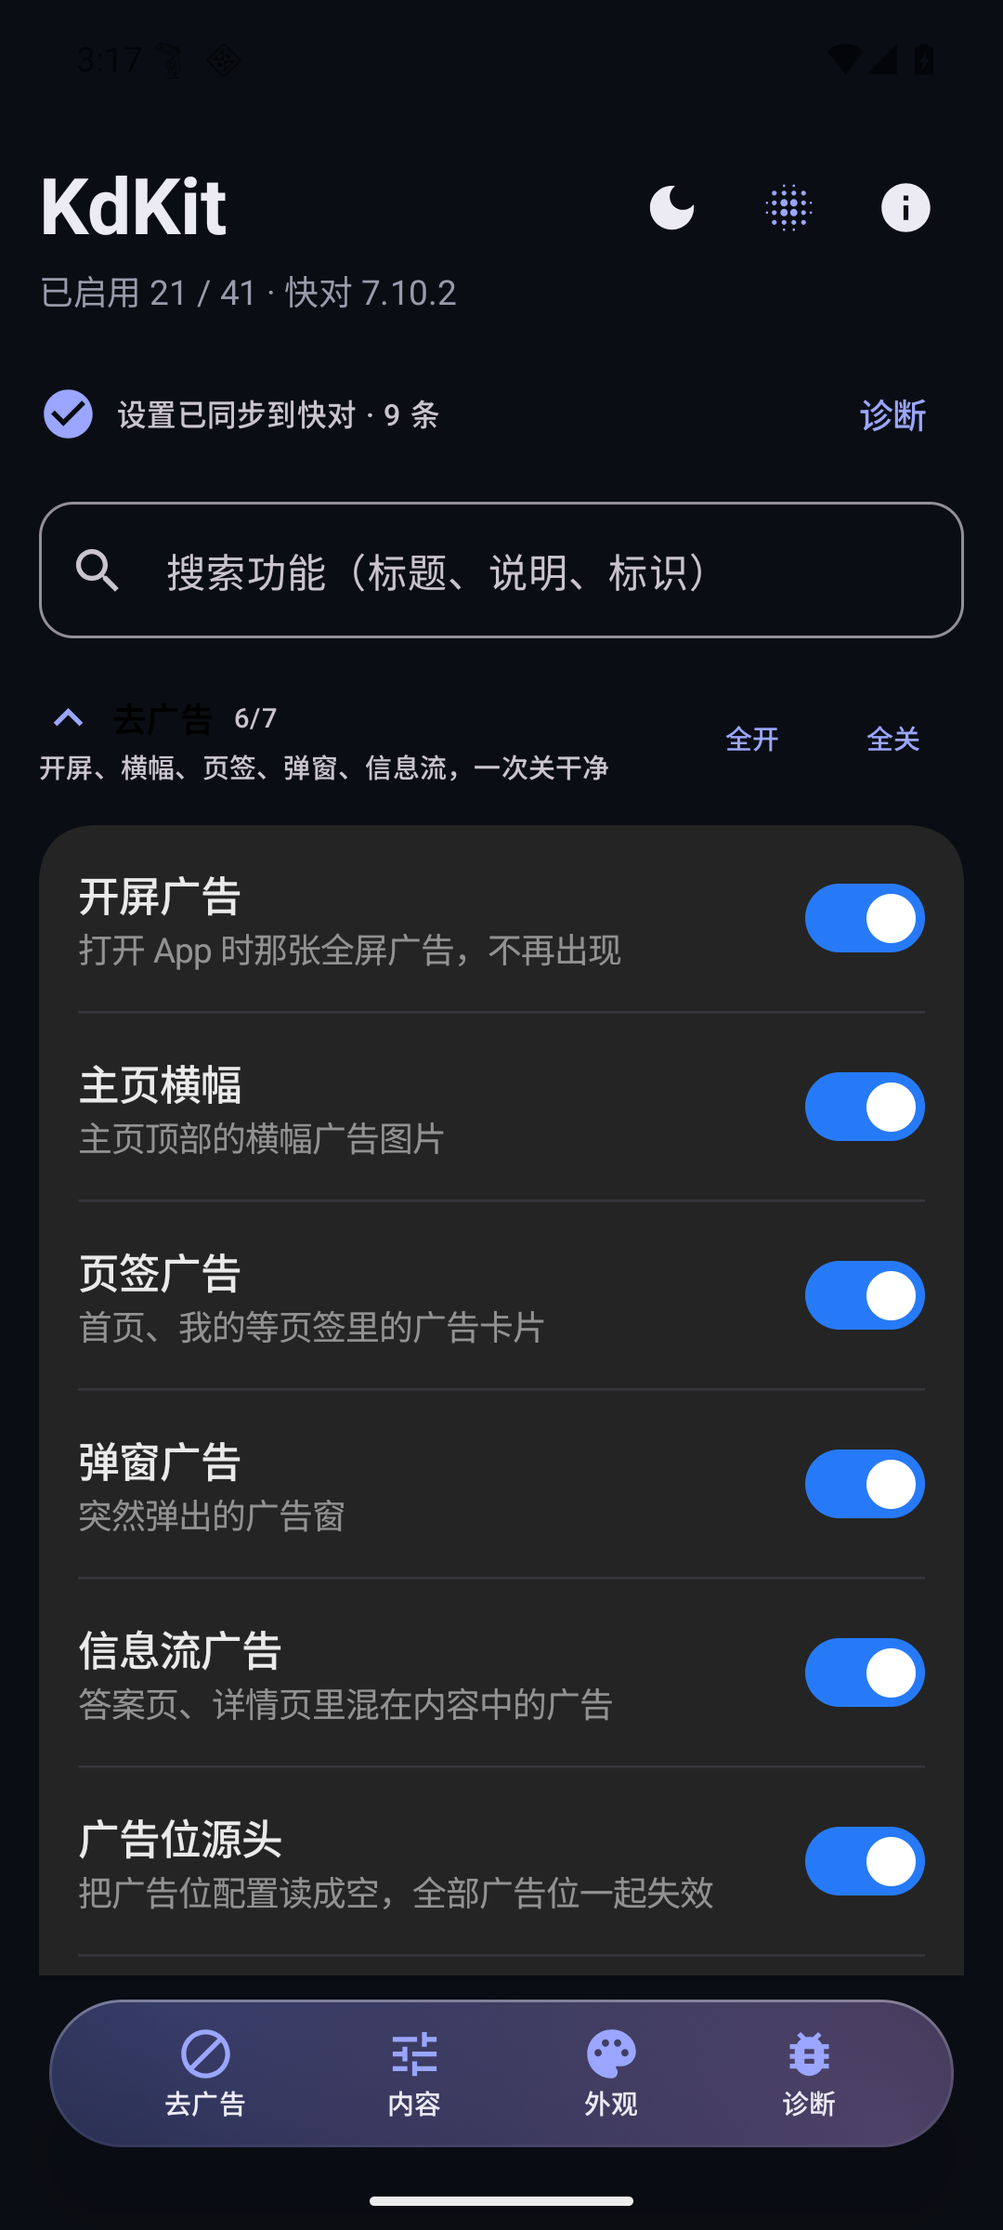
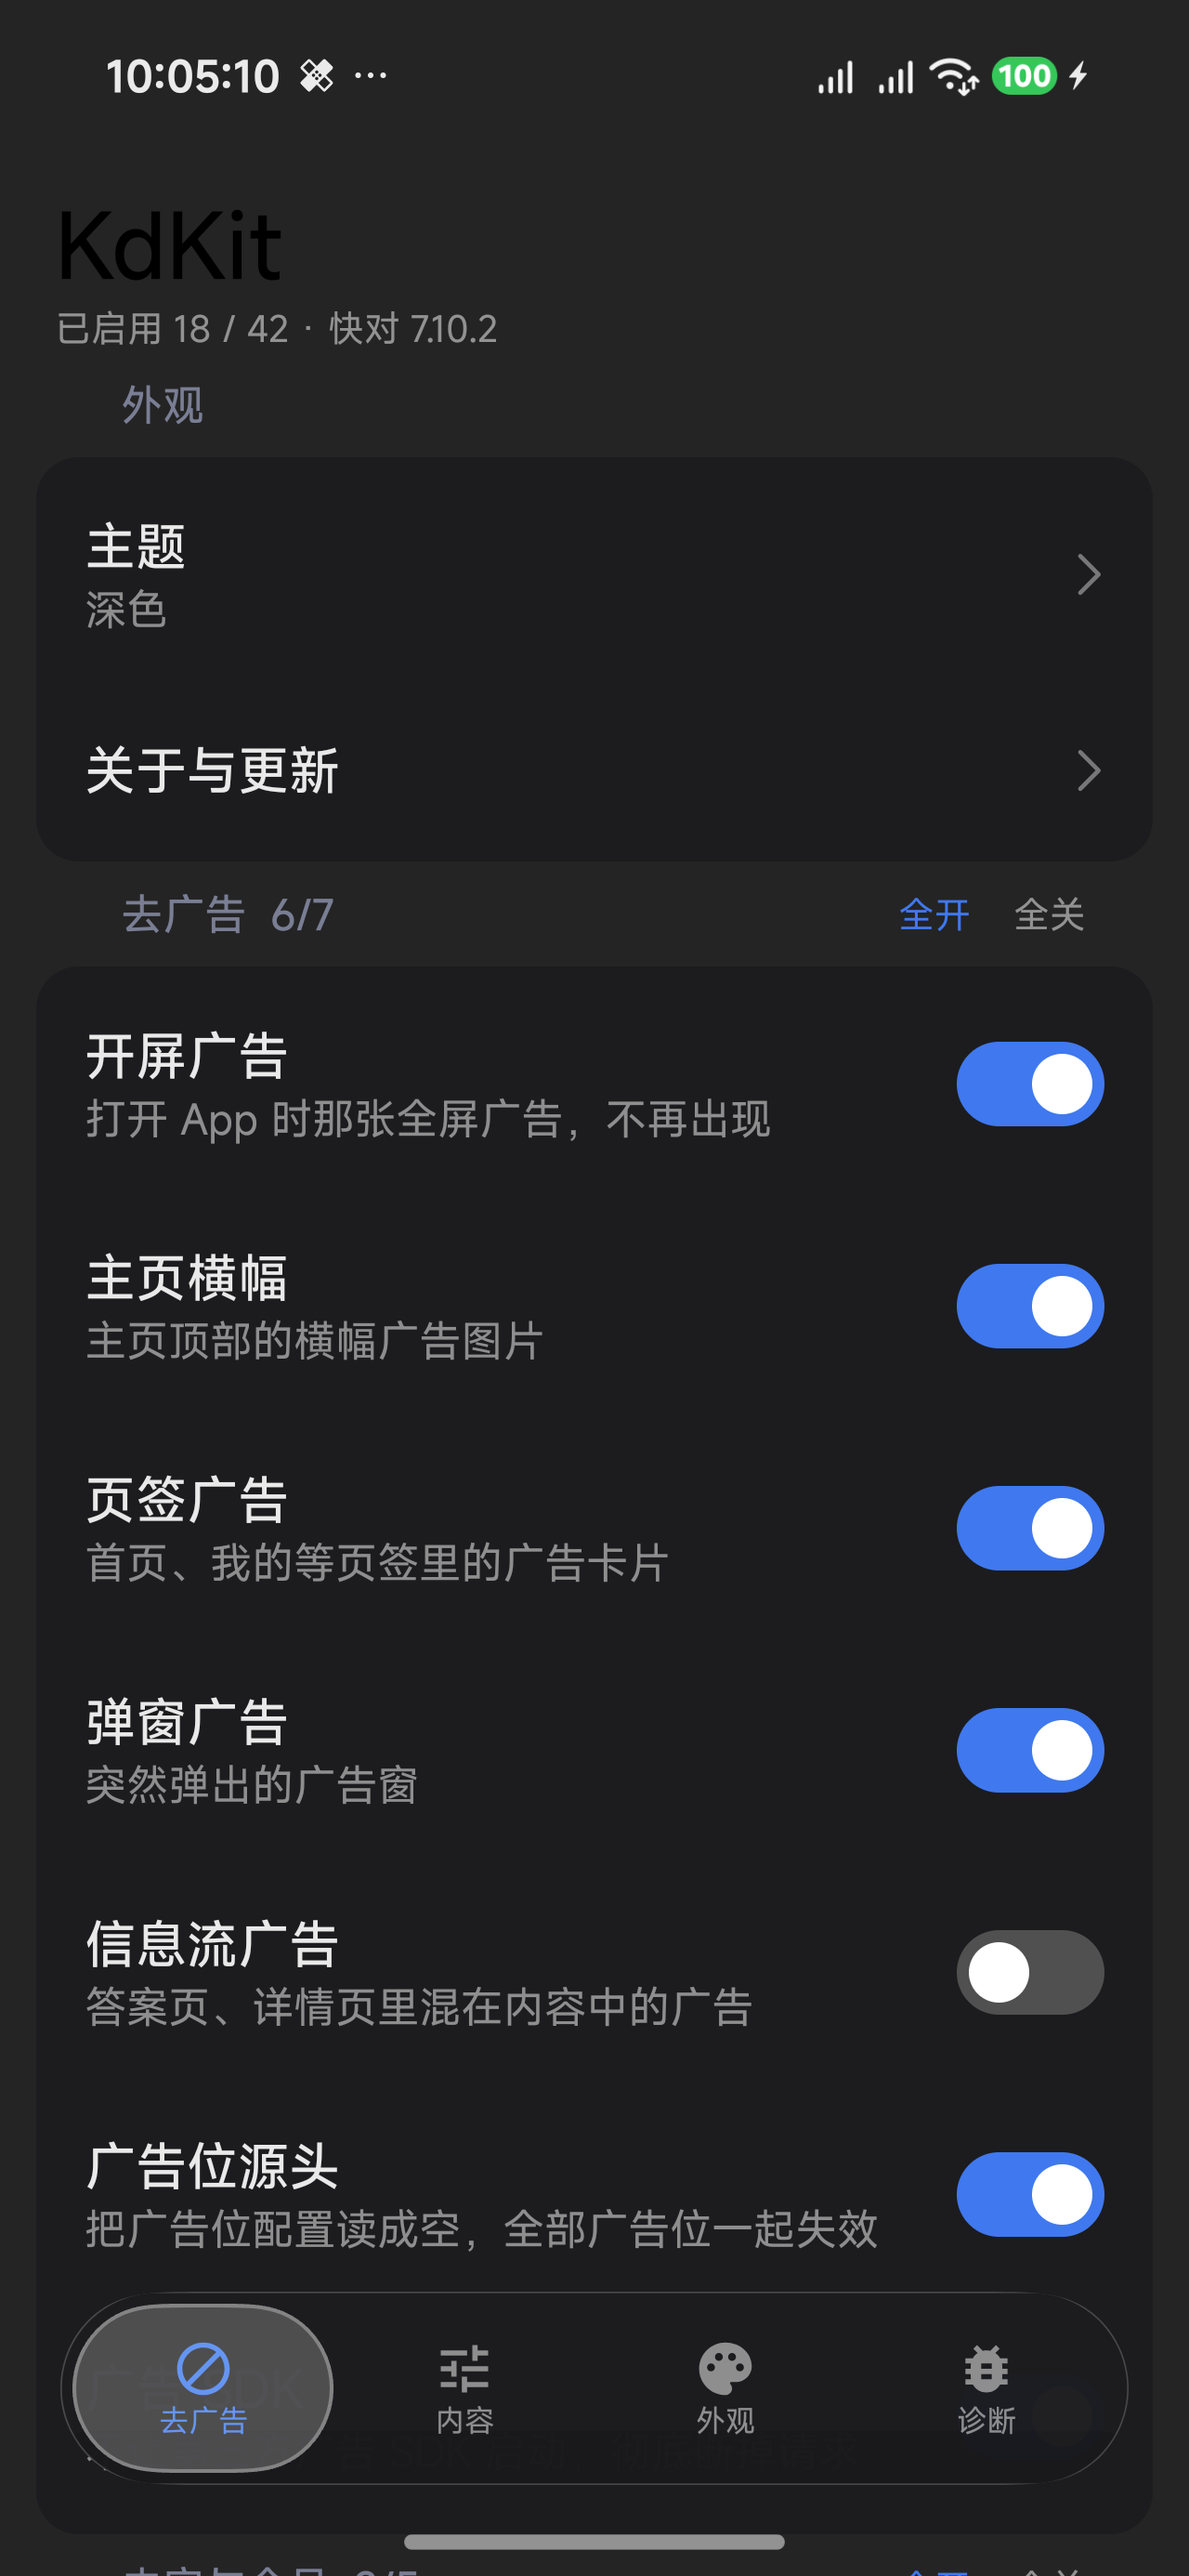
feat: 1.4.1 — 深色标题适配 / LSPosed 模块仓库 / README 换图
深色模式标题：页面里的 Text 来自 androidx material3，默认色取 MaterialTheme.colorScheme，
而 MiuixTheme 不会改 MaterialTheme。结果深色下 MiuixTheme 变深、Material 仍是浅色方案，
KdKit 大标题成了黑字黑底。现在在 MiuixTheme 里再套一层 MaterialTheme，
把 miuix 的语义色映射到 Material 角色。

卡片：miuix Card（底层 Surface）在颜色带透明度时会走 RenderEffect，撞小米 libhwui 的
MiBackgroundBlurBlend 崩溃点（10:02 实测启动白屏 + SIGSEGV）。改成自绘 GroupCard
（圆角 + 不透明底色），深色下 #1C1C1E 与页面底色分离，卡片边界清楚。

关于页：补 statusBarsPadding / navigationBarsPadding；顶部返回不再用 ArrowPreference，
改成一行文字。

LSPosed 仓库：
* APK 内新增 META-INF/xposed/{module.prop,java_init.list,scope.list}
  —— 之前 packaging 把整个 META-INF 排除，新式元数据进不了包；
* docs/repo.json + docs/modules.json（md5/size 由脚本按真实 APK 生成）；
* pages.yml 把 docs/ 发布成 GitHub Pages：https://xalor888.github.io/KdKit/repo.json
* release.yml 发版后自动回写 modules.json 并提交回 main。

README：换成本次真机截图，补 LSPosed 仓库安装方式。

diff --git a/module/app/src/main/java/dev/xalor/kdkit/ui/AboutPage.kt b/module/app/src/main/java/dev/xalor/kdkit/ui/AboutPage.kt
@@ -5,7 +5,9 @@ import androidx.compose.foundation.layout.Spacer
 import androidx.compose.foundation.layout.fillMaxSize
 import androidx.compose.foundation.layout.fillMaxWidth
 import androidx.compose.foundation.layout.height
+import androidx.compose.foundation.layout.navigationBarsPadding
 import androidx.compose.foundation.layout.padding
+import androidx.compose.foundation.layout.statusBarsPadding
 import androidx.compose.foundation.rememberScrollState
 import androidx.compose.foundation.verticalScroll
 import androidx.compose.material3.Text
@@ -21,7 +23,8 @@ import androidx.compose.ui.unit.dp
 import androidx.compose.ui.unit.sp
 import kotlinx.coroutines.Dispatchers
 import kotlinx.coroutines.withContext
-import top.yukonga.miuix.kmp.basic.Card
+import androidx.compose.foundation.clickable
+import androidx.compose.foundation.layout.Row
 import top.yukonga.miuix.kmp.basic.SmallTitle
 import top.yukonga.miuix.kmp.preference.ArrowPreference
 import top.yukonga.miuix.kmp.theme.MiuixTheme
@@ -55,13 +58,19 @@ fun AboutPage(onBack: () -> Unit, onReplayOobe: () -> Unit = {}) {
         }
     }
 
-    Column(Modifier.fillMaxSize().verticalScroll(rememberScrollState())) {
-        ArrowPreference(
-            title = "返回",
-            summary = null,
-            onClick = onBack,
-            modifier = Modifier.padding(top = 6.dp),
-        )
+    Column(
+        Modifier.fillMaxSize().statusBarsPadding().navigationBarsPadding()
+            .verticalScroll(rememberScrollState()),
+    ) {
+        // 返回：一行文字就好（用 ArrowPreference 会出现"返回 ›"的怪样子）
+        Row(
+            Modifier.fillMaxWidth().padding(start = 24.dp, top = 10.dp, bottom = 2.dp),
+        ) {
+            Text(
+                "← 返回", fontSize = 15.sp, color = c.primary,
+                modifier = Modifier.clickable(onClick = onBack).padding(vertical = 6.dp),
+            )
+        }
         Text(
             "关于 KdKit", fontSize = 26.sp, modifier = Modifier.padding(start = 24.dp, top = 8.dp),
             color = c.onSurface,
@@ -73,7 +82,7 @@ fun AboutPage(onBack: () -> Unit, onReplayOobe: () -> Unit = {}) {
         )
 
         SmallTitle("更新")
-        Card(Modifier.padding(horizontal = 12.dp)) {
+        GroupCard(Modifier.padding(horizontal = 12.dp)) {
             ArrowPreference(
                 title = when (val s = state) {
                     Ui.Checking -> "正在检查更新…"
@@ -90,7 +99,7 @@ fun AboutPage(onBack: () -> Unit, onReplayOobe: () -> Unit = {}) {
         }
 
         SmallTitle("引导")
-        Card(Modifier.padding(horizontal = 12.dp)) {
+        GroupCard(Modifier.padding(horizontal = 12.dp)) {
             ArrowPreference(
                 title = "重看引导",
                 summary = "重新走一遍首次启动的四步说明",
@@ -99,7 +108,7 @@ fun AboutPage(onBack: () -> Unit, onReplayOobe: () -> Unit = {}) {
         }
 
         SmallTitle("项目")
-        Card(Modifier.padding(horizontal = 12.dp)) {
+        GroupCard(Modifier.padding(horizontal = 12.dp)) {
             ArrowPreference(title = "项目主页", summary = UpdateApi.repoUrl, onClick = {
                 UpdateApi.openReleases(ctx)
             })
@@ -107,7 +116,7 @@ fun AboutPage(onBack: () -> Unit, onReplayOobe: () -> Unit = {}) {
         }
 
         SmallTitle("兼容")
-        Card(Modifier.padding(horizontal = 12.dp)) {
+        GroupCard(Modifier.padding(horizontal = 12.dp)) {
             Text(
                 "基线 快对 ${dev.xalor.kdkit.HostVersion.BASELINE_VERSION_NAME}" +
                     "（${dev.xalor.kdkit.HostVersion.BASELINE_VERSION_CODE}）",

diff --git a/module/app/src/main/java/dev/xalor/kdkit/ui/SettingsScreen.kt b/module/app/src/main/java/dev/xalor/kdkit/ui/SettingsScreen.kt
@@ -46,7 +46,6 @@ import dev.xalor.kdkit.features.FeatureRegistry
 import dev.xalor.kdkit.ui.liquidglass.LiquidBottomTabs
 import dev.xalor.kdkit.ui.theme.UiPrefs
 import kotlinx.coroutines.launch
-import top.yukonga.miuix.kmp.basic.Card
 import top.yukonga.miuix.kmp.basic.SmallTitle
 import top.yukonga.miuix.kmp.preference.ArrowPreference
 import top.yukonga.miuix.kmp.preference.SwitchPreference
@@ -124,7 +123,7 @@ fun SettingsScreen(
             }
             item(key = "appearance") {
                 SmallTitle("外观")
-                Card {
+                GroupCard() {
                     ArrowPreference(
                         title = "主题",
                         summary = UiPrefs.label(mode),
@@ -143,7 +142,7 @@ fun SettingsScreen(
                 }
                 item(key = "search_result") {
                     SmallTitle("搜索结果（${hits.size}）")
-                    Card {
+                    GroupCard() {
                         hits.forEach { f -> FeatureRow(f, states[f.id] == true) { v -> set(f.id, v) } }
                     }
                 }
@@ -173,7 +172,7 @@ fun SettingsScreen(
                         }
                     }
                     item(key = "c_${g.id}") {
-                        Card {
+                        GroupCard() {
                             items.forEach { f -> FeatureRow(f, states[f.id] == true) { v -> set(f.id, v) } }
                         }
                     }
@@ -203,6 +202,13 @@ fun SettingsScreen(
     }
 }
 
+/**
+ * 卡片的显式配色。
+ *
+ * 为什么不用 `Card {}` 的默认色：miuix 默认卡片色在**深色模式下与页面底色几乎同色**
+ * （都是近黑），整页看上去就是"没有卡片、只有一堆漂浮的文字"。这里固定用
+ * `surfaceContainerHigh`，深浅色都能看出卡片边界。
+ */
 @Composable
 private fun DockItem(index: Int, selected: Boolean, overlayPass: Boolean) {
     val (icon, label) = DockIcons[index]

diff --git a/module/app/src/main/java/dev/xalor/kdkit/ui/GroupCard.kt b/module/app/src/main/java/dev/xalor/kdkit/ui/GroupCard.kt
@@ -1,0 +1,43 @@
+package dev.xalor.kdkit.ui
+
+import androidx.compose.foundation.background
+import androidx.compose.foundation.layout.Column
+import androidx.compose.foundation.layout.ColumnScope
+import androidx.compose.foundation.layout.fillMaxWidth
+import androidx.compose.foundation.layout.padding
+import androidx.compose.foundation.shape.RoundedCornerShape
+import androidx.compose.runtime.Composable
+import androidx.compose.ui.Modifier
+import androidx.compose.ui.draw.clip
+import androidx.compose.ui.graphics.Color
+import androidx.compose.ui.unit.dp
+import dev.xalor.kdkit.ui.theme.LocalKdDark
+import top.yukonga.miuix.kmp.theme.MiuixTheme
+
+/**
+ * 分组卡片容器（**自己画，不用 miuix 的 `Card`**）。
+ *
+ * 为什么不用 `Card`：miuix 的 `Surface`（Card 的底层）在**颜色带透明度**时会走一条
+ * RenderEffect 路径 —— 那正好撞上小米这版 libhwui 的
+ * `MiBackgroundBlurBlend::postUpdateInfo` 崩溃点（2026-11-15 10:02 实测：
+ * 换成 `CardDefaults.defaultColors(surfaceContainerHigh)` 之后启动即白屏 + SIGSEGV）。
+ *
+ * 这里只做三件事：圆角 + 不透明底色 + 内边距。深浅色各给一个**不透明**色值，
+ * 保证深色模式下卡片能和页面底色区分开（之前用 miuix 默认色两者几乎同色，
+ * 整页看着像"没有卡片"）。
+ */
+@Composable
+fun GroupCard(
+    modifier: Modifier = Modifier,
+    content: @Composable ColumnScope.() -> Unit,
+) {
+    val dark = LocalKdDark.current
+    Column(
+        modifier
+            .fillMaxWidth()
+            .clip(RoundedCornerShape(14.dp))
+            .background(if (dark) Color(0xFF1C1C1E) else Color(0xFFFFFFFF))
+            .padding(vertical = 2.dp),
+        content = content,
+    )
+}

diff --git a/module/app/src/main/java/dev/xalor/kdkit/ui/liquidglass/LiquidGlassMaterial.kt b/module/app/src/main/java/dev/xalor/kdkit/ui/liquidglass/LiquidGlassMaterial.kt
@@ -31,9 +31,12 @@ import androidx.compose.ui.unit.dp
  *
  * 所以玻璃的"厚度感"改用**多层纯色**堆出来，而不是渐变或模糊：
  *  1. 主体：半透明白（浅色）/ 半透明深灰（深色）
- *  2. 顶部高光：上半部分叠一层 +8% 白，模拟玻璃上缘的 specular
- *  3. 底缘压暗：下缘叠一层 -5% 黑，让下缘"沉下去"
- *  4. 1dp 描边：提亮轮廓
+ *  2. 底缘压暗：下缘叠一层 -5% 黑，让下缘"沉下去"
+ *  3. 1dp 描边：勾轮廓
+ *
+ * **不要顶部高光块**：内嵌矩形在胶囊里会因为圆角半径大于自身半高，
+ * 在底部渲染出一条发亮的弧线（看起来像底栏底下多了个"光"）。
+ * 现在玻璃是平的：只剩主体 + 下缘压暗 + 描边。
  *
  * 交互层（拖拽弹簧、按压放大、指示器形变）仍然保留 murexide 原版实现。
  */
@@ -48,16 +51,6 @@ fun Modifier.liquidGlassSurface(
         // ① 主体
         drawRoundRect(
             color = if (light) Color(0xFAF4F4F6) else Color(0xFA1C1C1E),
-            cornerRadius = r,
-        )
-        // ② 上半高光：用**内嵌实色圆角矩形**模拟，不用 Brush
-        //    （真机上任何渐变 Brush 都会让小米 libhwui 在 MiBackgroundBlurBlend 崩，
-        //     例如 2026-11-15 10:51 那次；纯色多层是唯一稳的路子）
-        val inset = 1.dp.toPx()
-        drawRoundRect(
-            color = if (light) Color(0x1FFFFFFF) else Color(0x1AFFFFFF),
-            topLeft = Offset(inset, inset),
-            size = Size(size.width - inset * 2, size.height * 0.46f),
             cornerRadius = r,
         )
         // ③ 下缘压暗

diff --git a/module/app/src/main/java/dev/xalor/kdkit/ui/theme/KdTheme.kt b/module/app/src/main/java/dev/xalor/kdkit/ui/theme/KdTheme.kt
@@ -27,7 +27,29 @@ fun KdTheme(themeMode: String = UiPrefs.THEME_AUTO, content: @Composable () -> U
     }
     CompositionLocalProvider(LocalKdDark provides dark) {
         MiuixTheme(colors = if (dark) darkColorScheme() else lightColorScheme()) {
-            content()
+            // 关键：**再套一层 MaterialTheme**。
+            // 我们的页面里 `Text` / `Icon` 用的是 androidx.compose.material3，
+            // 它们的默认颜色来自 MaterialTheme.colorScheme —— 不套这一层的话，
+            // 深色模式下 MiuixTheme 变深、Material 仍是浅色方案，标题就成了"黑字黑底"
+            // （2026-11-15 实测：KdKit 大标题在深色下几乎看不见）。
+            // 这里把 miuix 的语义色映射成 Material 的角色，两套组件才共享同一份"当前是深色"。
+            val m = MiuixTheme.colorScheme
+            val base = if (dark) {
+                androidx.compose.material3.darkColorScheme()
+            } else {
+                androidx.compose.material3.lightColorScheme()
+            }
+            androidx.compose.material3.MaterialTheme(
+                colorScheme = base.copy(
+                    primary = m.primary,
+                    background = m.background,
+                    onBackground = m.onSurface,
+                    surface = m.surface,
+                    onSurface = m.onSurface,
+                    onSurfaceVariant = m.onSurfaceVariantSummary,
+                ),
+                content = content,
+            )
         }
     }
 }

diff --git a/kit/scripts/gen_repo_index.py b/kit/scripts/gen_repo_index.py
@@ -1,0 +1,67 @@
+#!/usr/bin/env python3
+"""生成 LSPosed 模块仓库索引 `docs/modules.json`。
+
+LSPosed 的"模块仓库"就是一个静态 JSON：
+  repo.json    —— 仓库自述（name / homepage / index）
+  modules.json —— 模块数组，每项带 releaseUrl / versionCode / md5 / size
+
+为什么用脚本而不是手写：**md5 与 size 必须和发布出去的 APK 完全一致**，
+手抄一次错一次；脚本直接从 CI 刚构建出的 APK 算，然后写回 docs/。
+
+用法：python3 kit/scripts/gen_repo_index.py <apk> <versionName> <versionCode>
+"""
+import hashlib
+import json
+import pathlib
+import sys
+
+PKG = "dev.xalor.kdkit"
+NAME = "KdKit"
+AUTHOR = "xalor"
+HOME = "https://github.com/xalor888/KdKit"
+SCOPE = ["com.kuaiduizuoye.scan"]
+MIN_API = 26
+TARGET_API = 37
+DESC = "快对去广告 / 界面 / 稳定性增强：去掉开屏、横幅、页签、弹窗、信息流与会员推销"
+
+
+def main() -> int:
+    if len(sys.argv) != 4:
+        print(__doc__)
+        return 2
+    apk = pathlib.Path(sys.argv[1])
+    version_name = sys.argv[2]
+    version_code = int(sys.argv[3])
+    data = apk.read_bytes()
+
+    entry = {
+        "id": PKG,
+        "name": NAME,
+        "author": AUTHOR,
+        "description": DESC,
+        "homepage": HOME,
+        "version": version_name,
+        "versionCode": version_code,
+        "minApi": MIN_API,
+        "targetApi": TARGET_API,
+        "scope": SCOPE,
+        "md5": hashlib.md5(data).hexdigest(),
+        "size": len(data),
+        "releaseUrl": f"{HOME}/releases/download/v{version_name}/KdKit-v{version_name}.apk",
+    }
+
+    out = pathlib.Path("docs/modules.json")
+    existing = []
+    if out.is_file():
+        try:
+            existing = json.loads(out.read_text(encoding="utf-8"))
+        except Exception:
+            existing = []
+    merged = [m for m in existing if m.get("id") != PKG] + [entry]
+    out.write_text(json.dumps(merged, ensure_ascii=False, indent=2) + "\n", encoding="utf-8")
+    print(f"wrote {out}: {version_name} ({version_code}) md5={entry['md5']} size={entry['size']}")
+    return 0
+
+
+if __name__ == "__main__":
+    raise SystemExit(main())
